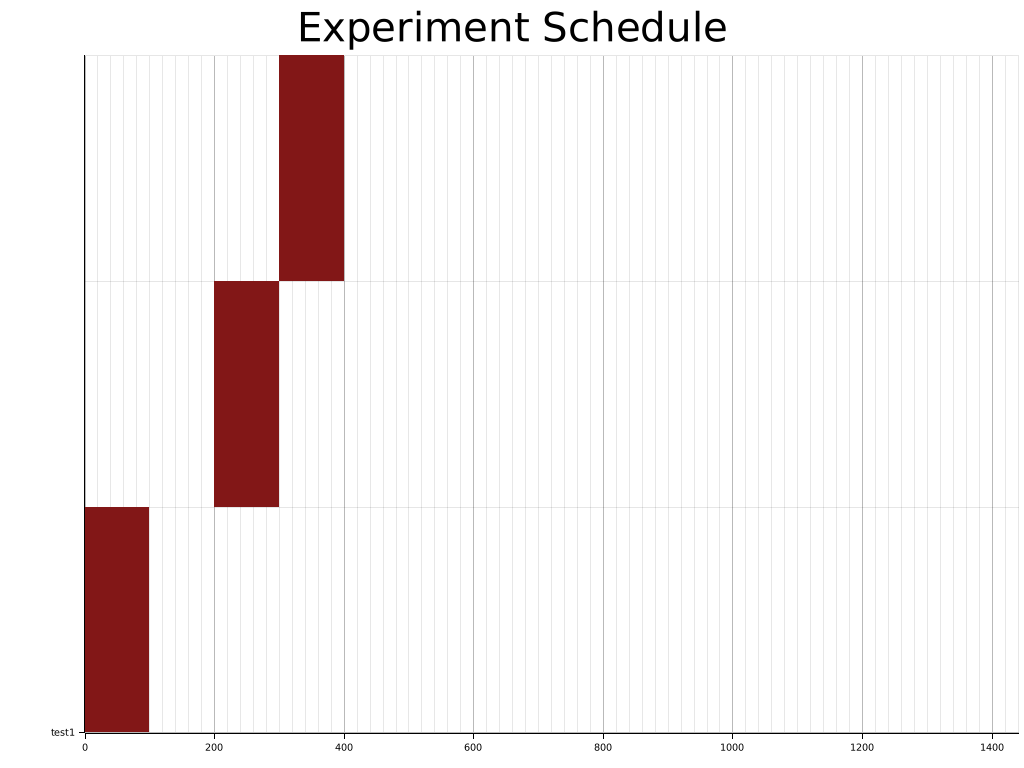
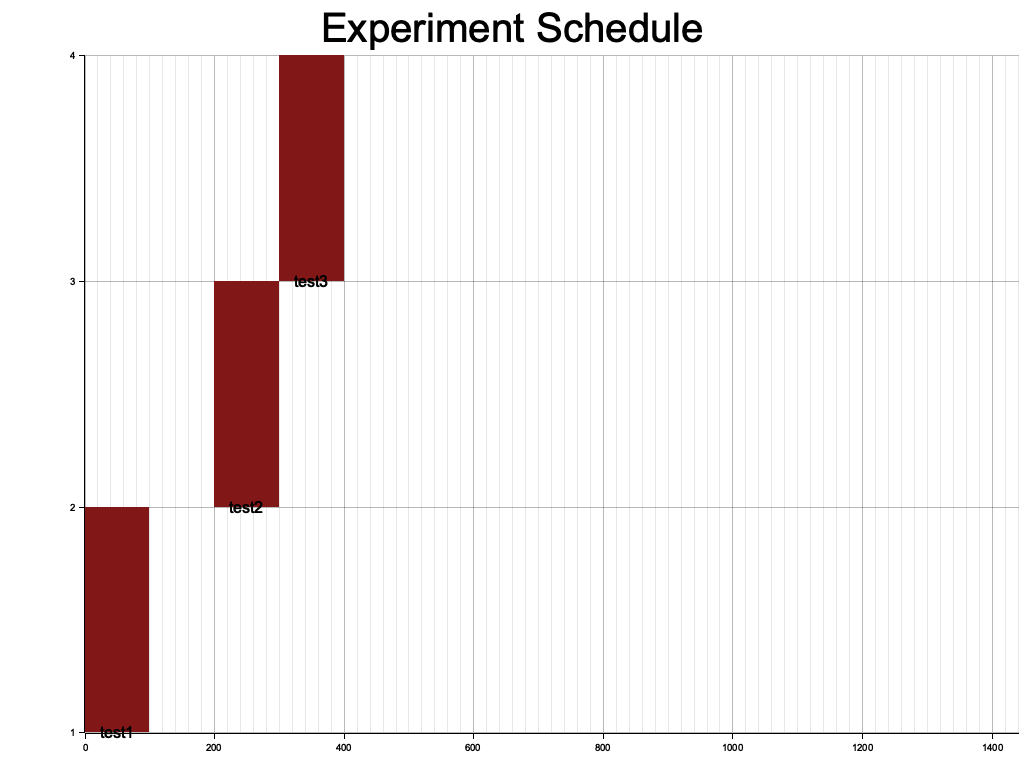
update simple plot

diff --git a/src/common_param_type.rs b/src/common_param_type.rs
@@ -70,6 +70,7 @@ impl ScheduledTask{
         let max_time = 1440;
         let max_tasks = scheduled_tasks.len();
         eprintln!("max_time: {:?}, max_tasks: {:?}", max_time, max_tasks);
+        println!("{:?}", scheduled_tasks);
 
         // グラフの描画
         // caption: グラフのタイトル
@@ -86,29 +87,35 @@ impl ScheduledTask{
 
         // メッシュの設定
         // chart にメッシュを設定（注意：root ではない。rootに設定すると、場所がずれる）
-        chart.configure_mesh()
-            .x_labels(10)
-            .y_labels(max_tasks-1)
-            .y_label_formatter(&|y: &usize| scheduled_tasks[*y].experiment_name.clone())
-            .x_label_formatter(&|x: &i64| format!("{}", x)) // Change the type of x to i64
-            .draw()?;
 
-        // タスクを描画
-        for (i, task) in scheduled_tasks.iter().enumerate() {
-            let start = task.schedule_timing;
-            let duration = task.processing_time;
-            if start < max_time {
-                let end = start + duration;
-                chart.draw_series(std::iter::once(Rectangle::new(
-                    [(start as i64, i), (end as i64, i + 1)],
-                    HSLColor(240.0, 0.7, 0.3).filled(),
-                )))?;
-            }
+    chart.configure_mesh()
+        .x_labels(10)
+        .y_labels(max_tasks)
+        .x_label_formatter(&|x: &i64| format!("{}", x))
+        .y_label_formatter(&|y: &usize| format!("{}", y + 1)) // y軸のラベルをタスク番号に
+        .draw()?;
+
+    for (i, task) in scheduled_tasks.iter().enumerate() {
+        let start = task.schedule_timing;
+        let duration = task.processing_time;
+        if start < max_time {
+            let end = start + duration;
+            chart.draw_series(std::iter::once(Rectangle::new(
+                [(start as i64, i), (end as i64, i + 1)],
+                HSLColor(240.0, 0.7, 0.3).filled(),
+            )))?;
+
+            chart.draw_series(std::iter::once(Text::new(
+                task.experiment_name.clone(),
+                ((start + end) / 2, i),
+                ("sans-serif", 20).into_font().color(&BLACK).pos(plotters::style::text_anchor::Pos::new(plotters::style::text_anchor::HPos::Center, plotters::style::text_anchor::VPos::Center)),
+            )))?;
         }
-
-        eprintln!("{:?}", root.present()?);
-        Ok(())
     }
+
+    eprintln!("{:?}", root.present()?);
+    Ok(())
+}
 
     fn test_sample()->Self{
         ScheduledTask{
